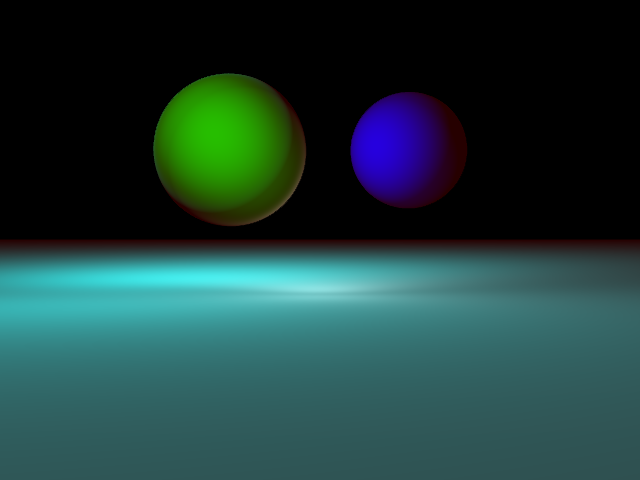
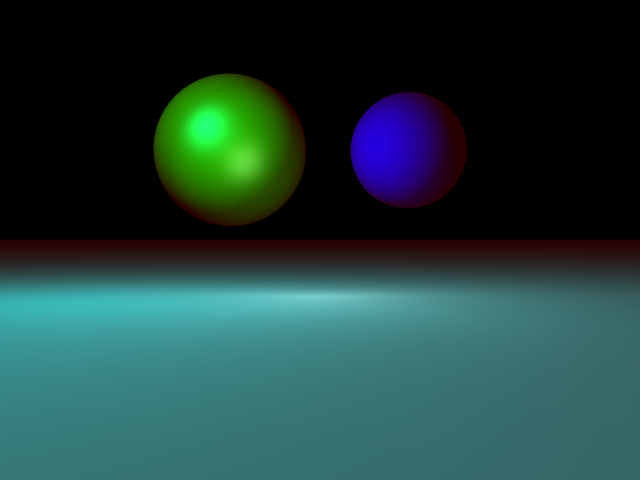
Fixed specular

diff --git a/raytracer/source/common/brdf/GlossySpecular.cpp b/raytracer/source/common/brdf/GlossySpecular.cpp
@@ -3,7 +3,7 @@
 #include <HitRec.h>
 
 GlossySpecular::GlossySpecular()
-    : ks(1.f)
+    : ks(0.25f)
     , exp(5.f)
 {
     
@@ -19,7 +19,7 @@ RGBColor GlossySpecular::f(const HitRec& hr, const glm::vec3& wi, const glm::vec
 {
     RGBColor L;
     float ndotwi = glm::dot(hr.normal, wi);
-    glm::vec3 r(-wi + 2.f * ndotwi * hr.normal);
+    glm::vec3 r(wi - 2.f * ndotwi * hr.normal);
     float rdotwo = glm::dot(r, wo);
     
     if (rdotwo > 0.f)

diff --git a/raytracer/include/scenes/Scene_MultiObject.h b/raytracer/include/scenes/Scene_MultiObject.h
@@ -27,6 +27,7 @@ light->SetLocation(glm::vec3(-200.f, -200.f, 200.f));
 light->SetColor(RGBColor(glm::vec3(0.f, 1.f, 0.f)));
 this->AddLight(light);
 
+
 Phong* sphere_material = new Phong();
 Lambertian* ambient_mat = new Lambertian();
 Lambertian* diffuse_mat = new Lambertian();
